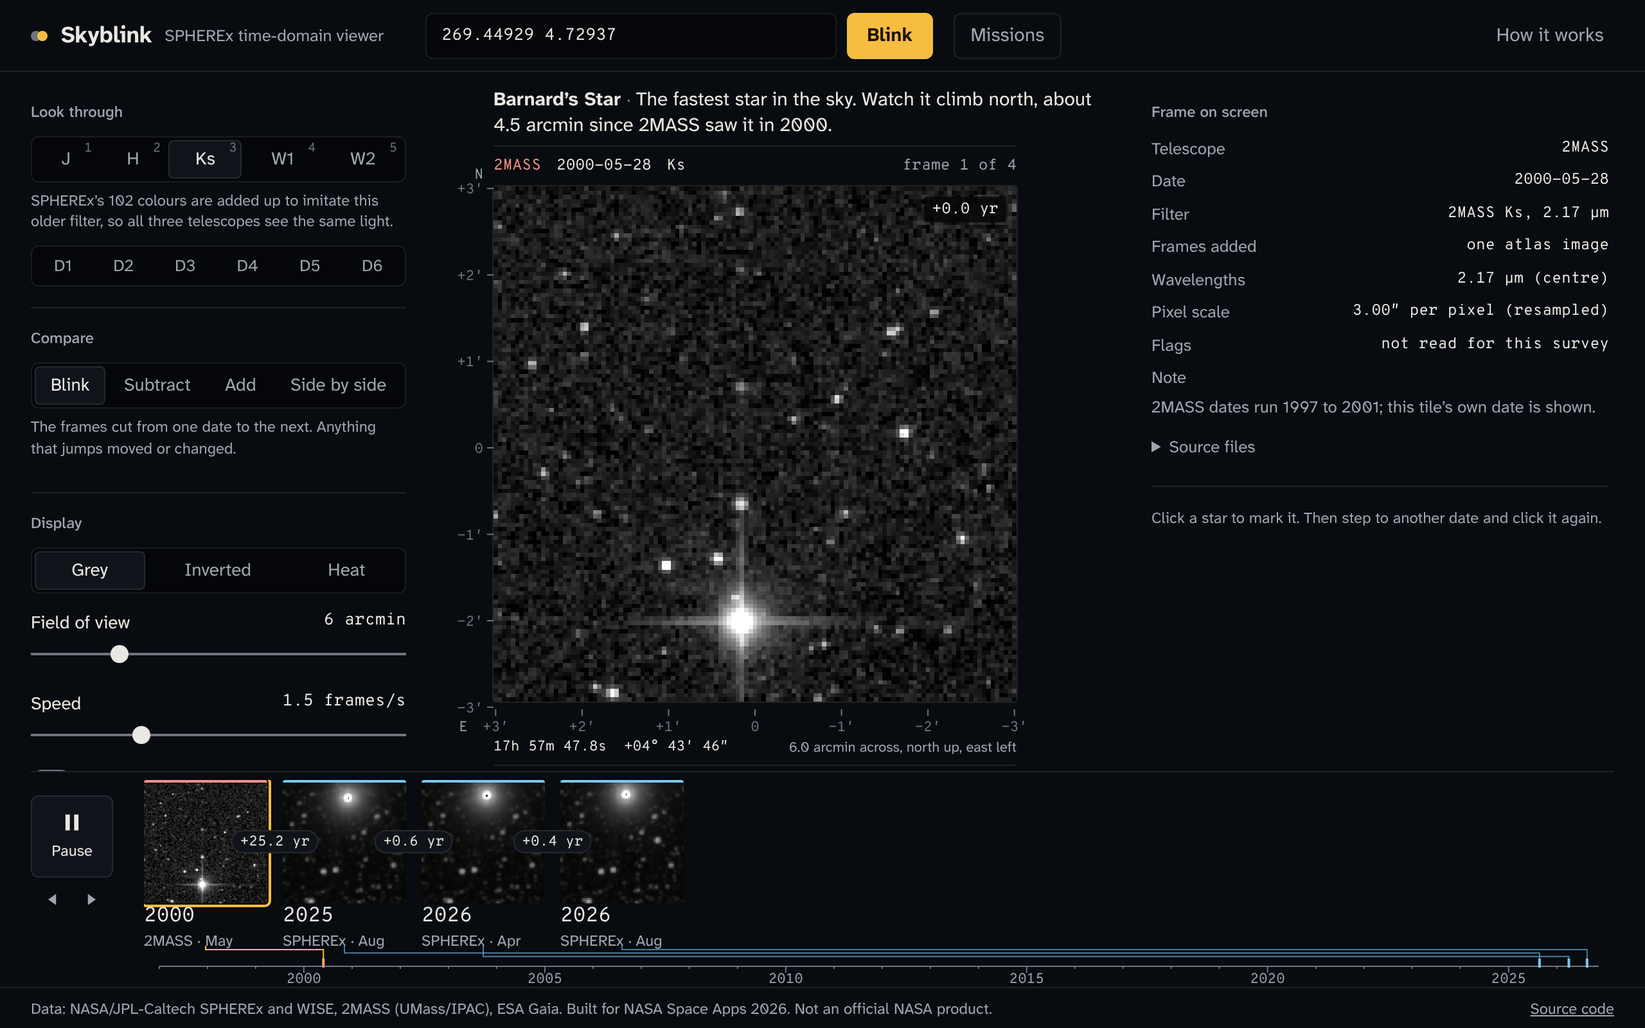
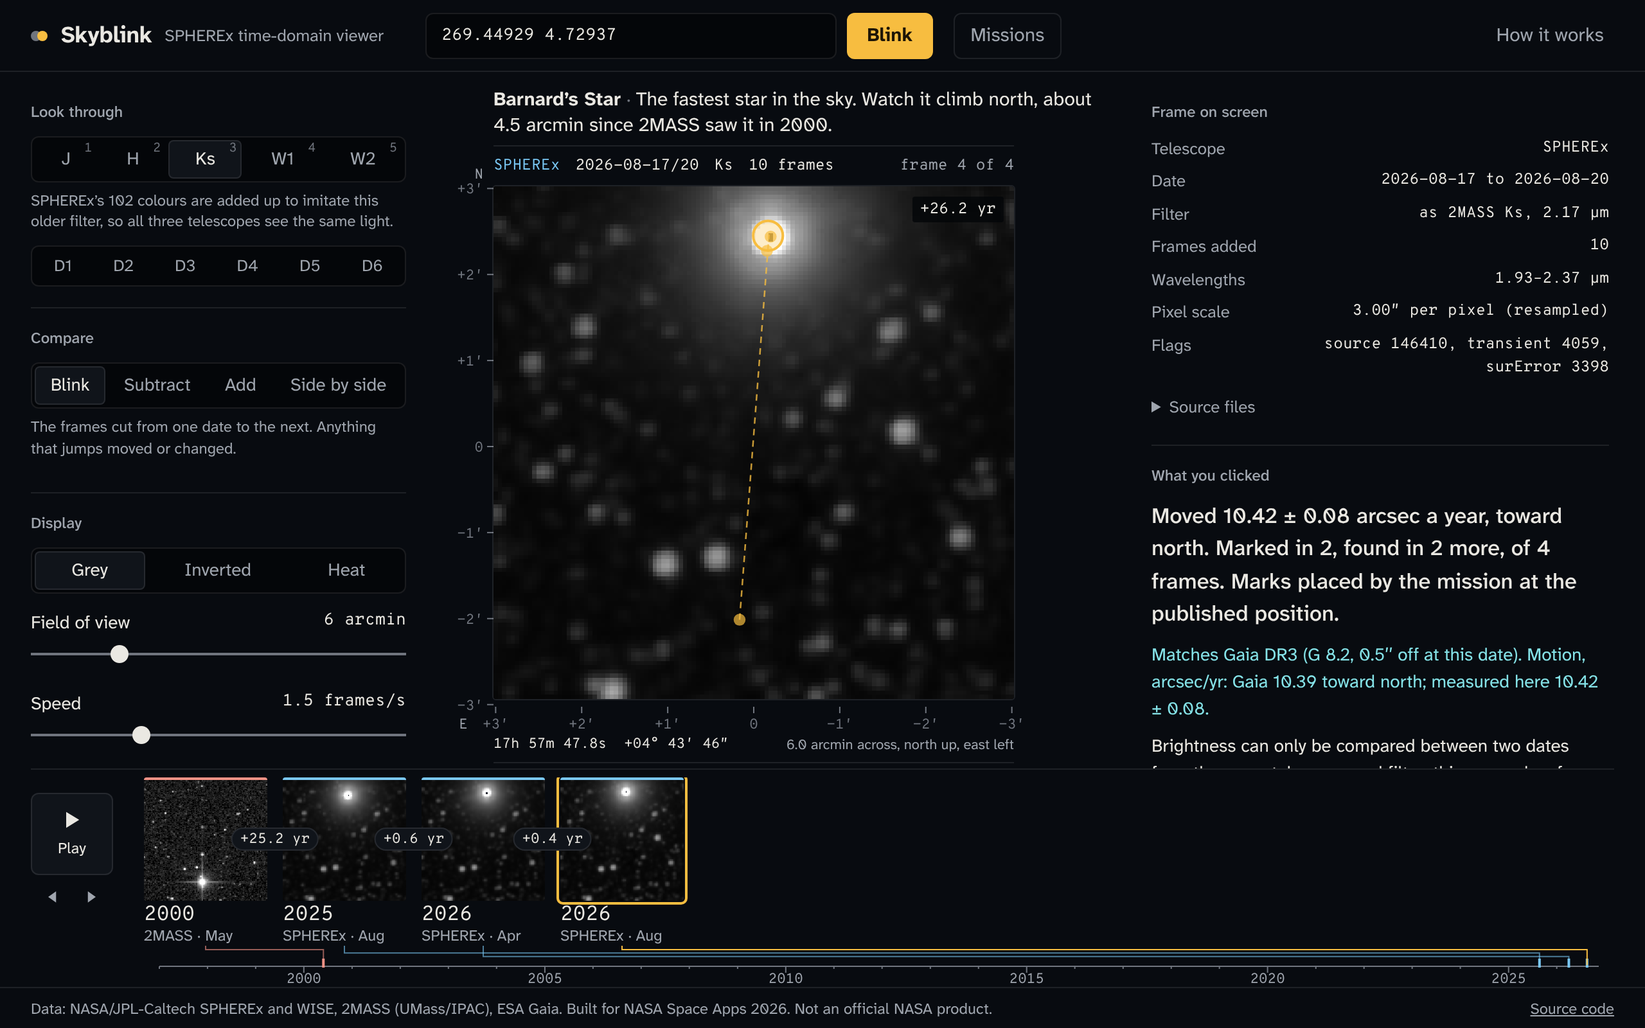
Missions mark their own target; one click works for stars that hold still; film strip labels clear of the leader lines
Brightness is compared only between visits that sampled at least 80% of the filter.

Claude-Session: https://claude.ai/code/session_01W2xLkEdqZ2R8Rb2h1n58Lp

diff --git a/web/src/ui/clicked.js b/web/src/ui/clicked.js
@@ -1,8 +1,7 @@
 // "What you clicked": the source's position on each date, its fitted motion,
 // the Gaia DR3 match, and its SPHEREx spectrum per pass.
 
-import { centroid, fitMotion, motionSentence, direction, apertureFlux, frameNoise, accepted, scatterArcsec } from '../app/measure.js';
-import { angularDistance } from '../data/sky-math.js';
+import { centroid, motionSentence, direction, trackAt, SEARCH_ARCSEC, STILL_ARCSEC } from '../app/measure.js';
 import { matchStar, totalPm } from '../app/gaia.js';
 import { gridToSky, skyToGrid } from '../engine/grid.js';
 import { slotYear } from './strip.js';
@@ -15,96 +14,77 @@ const el = (tag, cls, text) => {
   if (text != null) e.textContent = text;
   return e;
 };
-const SEARCH_ARCSEC = 12;
-const STILL_ARCSEC = 3; // one click: the same source within 3″ on every date means it did not move
 const MATCH_ARCSEC = 3; // a Gaia star counts as the same source within 3″ at the frame's date
-const APERTURE_ARCSEC = 9; // one aperture for every frame; sky from a ring at 2 to 3 times that
 const MONTHS = ['Jan', 'Feb', 'Mar', 'Apr', 'May', 'Jun', 'Jul', 'Aug', 'Sep', 'Oct', 'Nov', 'Dec'];
 const monthYear = (mjd) => {
   const d = new Date((mjd - 40587) * 86400000);
   return `${MONTHS[d.getUTCMonth()]} ${d.getUTCFullYear()}`;
 };
 
+export { measure } from '../app/measure.js';
+
 /** Mark the source nearest the click in the frame on screen only; a frame keeps one mark. Returns the mark or null. */
 export function measureClick(app, hit) {
-  const grid = app.tl.grid;
-  const m = centroid(hit.slot.frame.data, grid.n, hit.col, hit.row, SEARCH_ARCSEC / grid.scale, { core: 9 / grid.scale });
-  $('clicked').hidden = false;
-  $('click-hint').hidden = true;
-  if (!app.click) app.click = { marks: new Map(), positions: [], fit: null, still: null, spectra: new Map(), miss: false };
-  const c = app.click;
+  const m = centroid(hit.slot.frame.data, app.tl.grid.n, hit.col, hit.row, SEARCH_ARCSEC / app.tl.grid.scale, { core: 9 / app.tl.grid.scale });
+  const c = openClick(app);
   c.miss = !m;
-  if (!m) return null;
-  const [ra, dec] = gridToSky(grid, m.col, m.row);
-  c.marks.set(hit.slot.id, { slotId: hit.slot.id, mjd: hit.slot.frame.mjd, col: m.col, row: m.row, ra, dec });
-  const first = [...c.marks.values()][0];
-  Object.assign(c, { ra: first.ra, dec: first.dec, mjd: first.mjd });
+  if (m) setMark(app, hit.slot, m, false);
   return m;
 }
 
-/** Sky position + brightness of a centroid in one frame. */
-function position(slot, m, kind, grid) {
-  const [ra, dec] = gridToSky(grid, m.col, m.row);
-  const flux = apertureFlux(slot.frame.data, grid.n, grid.n, m.col, m.row, APERTURE_ARCSEC / grid.scale);
-  return { slot, mjd: slot.frame.mjd, found: true, kind, col: m.col, row: m.row, ra, dec, flux, ...brightness(flux, slot.frame.unit, grid.scale) };
+function openClick(app) {
+  $('clicked').hidden = false;
+  $('click-hint').hidden = true;
+  app.click ??= { marks: new Map(), positions: [], fit: null, still: null, spectra: new Map(), miss: false };
+  return app.click;
+}
+
+function setMark(app, slot, m, mission) {
+  const c = app.click;
+  const [ra, dec] = gridToSky(app.tl.grid, m.col, m.row);
+  c.marks.set(slot.id, { slotId: slot.id, mjd: slot.frame.mjd, col: m.col, row: m.row, ra, dec, mission });
+  const first = [...c.marks.values()][0];
+  Object.assign(c, { ra: first.ra, dec: first.dec, mjd: first.mjd });
 }
 
 /**
- * Marks -> positions on every ready frame. One mark: if the same source sits within 3″ in every other
- * ready frame it did not move. Two or more: fit a line, look within 12″ of its prediction in each unmarked
- * frame, accept a centroid whose aperture sum is at least 5 times the frame's aperture noise, refit with all.
+ * A mission marks its own target: centroid the real image within 12″ of where the published track puts it,
+ * in the first and the last ready frame (moving inward past frames where nothing is found). A target with
+ * no proper motion needs one mark, in the newest frame. Marks nothing unless every needed mark is found.
  */
-export function measure(app) {
-  const c = app.click;
-  if (!c) return;
+export function missionMarks(app, track) {
   const grid = app.tl.grid;
   const ready = app.view.filter((s) => s.status === 'ready');
-  for (const id of c.marks.keys()) if (!ready.some((s) => s.id === id)) c.marks.delete(id);
-  const look = (slot, ra, dec, radius) => {
-    const g = skyToGrid(grid, ra, dec);
-    return g && centroid(slot.frame.data, grid.n, g[0], g[1], radius / grid.scale, { core: 9 / grid.scale });
+  const find = (s) => {
+    const g = skyToGrid(grid, ...trackAt(track, s.frame.mjd));
+    return g && centroid(s.frame.data, grid.n, g[0], g[1], SEARCH_ARCSEC / grid.scale, { core: 9 / grid.scale });
   };
-  const marked = ready.filter((s) => c.marks.has(s.id)).map((s) => position(s, c.marks.get(s.id), 'marked', grid));
-  c.still = null;
-  c.fit = null;
-  c.positions = marked;
-  if (marked.length === 1) {
-    const [m] = marked;
-    const others = ready.filter((s) => s.id !== m.slot.id).map((s) => [s, look(s, m.ra, m.dec, STILL_ARCSEC)]);
-    if (others.length && others.every(([, f]) => f)) {
-      c.positions = [m, ...others.map(([s, f]) => position(s, f, 'found', grid))];
-      const near = c.positions.every((p) => angularDistance(p.ra, p.dec, m.ra, m.dec) * 3600 <= STILL_ARCSEC);
-      if (near) c.still = { scatter: scatterArcsec(c.positions) };
-      else c.positions = marked;
-    }
-  } else if (marked.length >= 2) {
-    const line = fitMotion(marked, { floor: grid.scale / 2 });
-    if (line) {
-      const npix = Math.PI * (APERTURE_ARCSEC / grid.scale) ** 2;
-      const found = [];
-      for (const s of ready) {
-        if (c.marks.has(s.id)) continue;
-        const f = look(s, ...line.at(s.frame.mjd), SEARCH_ARCSEC);
-        if (!f) continue;
-        const p = position(s, f, 'found', grid);
-        s.frame.noise ??= frameNoise(s.frame.data); // shortcut: cached on the frame object, recomputed if the frame is rebuilt
-        // A saturated core leaves flagged (NaN) pixels in the aperture: then judge the centroid's core sum instead.
-        const ok = Number.isFinite(p.flux) ? accepted(p.flux, s.frame.noise, npix) : accepted(f.flux, s.frame.noise, f.npix);
-        if (ok) found.push(p);
-      }
-      c.positions = [...marked, ...found].sort((x, y) => x.mjd - y.mjd);
-    }
-    c.fit = fitMotion(c.positions, { floor: grid.scale / 2 });
+  const hits = [];
+  for (let j = ready.length - 1; j >= 0 && !hits.length; j--) {
+    const m = find(ready[j]);
+    if (m) hits.push([ready[j], m]);
   }
-  c.readyCount = ready.length;
+  if (track.pmra || track.pmdec) {
+    const last = hits.length ? ready.indexOf(hits[0][0]) : 0;
+    for (let i = 0; i < last && hits.length < 2; i++) {
+      const m = find(ready[i]);
+      if (m) hits.push([ready[i], m]);
+    }
+    if (hits.length < 2) return false;
+  } else if (!hits.length) return false;
+  openClick(app);
+  for (const [s, m] of hits.reverse()) setMark(app, s, m, true);
+  return true;
 }
 
 function motionText(c) {
   const n = c.readyCount;
   const marks = c.marks.size;
   const miss = c.miss ? `No source within ${SEARCH_ARCSEC}″ of that click. ` : '';
-  if (c.still) return `${miss}Did not move: the same source sits within ${STILL_ARCSEC}″ in all ${n} frames (scatter ${c.still.scatter.toFixed(1)}″).`;
+  const k = c.positions.length;
+  if (c.still) return `${miss}Did not move: the same source sits within ${STILL_ARCSEC}″ in ${k === n ? 'all' : `${k} of`} ${n} frames (scatter ${c.still.scatter.toFixed(1)}″).`;
   if (marks === 0) return `${miss}Click a star to mark it.`;
+  if (marks === 1 && c.away) return `${miss}Found within ${STILL_ARCSEC}″ of the mark in ${k} of ${n} frames but further away in ${c.away}, so it cannot say whether it moved. Step to another date and click it again.`;
   if (marks === 1) return `${miss}Marked in 1 of ${n} frames. Step to another date and click it again.`;
   if (!c.fit) return `${miss}The marks are less than three months apart. Mark a date further away.`;
   const found = c.positions.length - marks;
@@ -114,7 +94,8 @@ function motionText(c) {
 export function renderClicked(app, st) {
   const c = app.click;
   if (!c) return;
-  $('motion').textContent = motionText(c);
+  const byMission = [...c.marks.values()].filter((m) => m.mission).length;
+  $('motion').textContent = motionText(c) + (byMission ? ` ${byMission > 1 ? 'Marks' : 'Mark'} placed by the mission at the published position.` : '');
   $('gaia-match').textContent = gaiaLine(app, c);
   $('bright').textContent = brightSentence(c.positions);
   const body = $('pos-table').tBodies[0];
@@ -142,27 +123,23 @@ export function renderClicked(app, st) {
 
 const signed = (v) => `${v >= 0 ? '+' : '−'}${Math.abs(v).toFixed(1)}`;
 
-/**
- * Aperture sum -> a value in the frame's own unit. Surface brightness in MJy/sr
- * summed over pixels times the pixel's solid angle is a flux density, given in mJy;
- * any other unit is shown as the plain sum, labelled with that unit.
- */
-function brightness(sum, unit, scaleArcsec) {
-  if (!Number.isFinite(sum)) return { value: NaN, unit: unit || '' };
-  if (unit === 'MJy/sr') return { value: sum * 1e9 * (scaleArcsec / 206264.806) ** 2, unit: 'mJy' };
-  return { value: sum, unit: `${unit || 'counts'} summed` };
-}
-
 /** "Faded 34% between Sep 2025 and Sep 2026", only within one survey and filter. */
 function brightSentence(positions) {
   const groups = new Map();
+  let partial = 0;
   for (const p of positions) {
     if (!p.found || !Number.isFinite(p.value)) continue;
+    // A visit that sampled under 80% of the filter gives a brightness that is not comparable (see timeline.js).
+    if (p.slot.frame.bandCoverage < 0.8) {
+      partial++;
+      continue;
+    }
     const k = `${p.slot.source}|${p.slot.frame.band}|${p.unit}`;
     if (!groups.has(k)) groups.set(k, []);
     groups.get(k).push(p);
   }
   const best = [...groups.values()].filter((g) => g.length >= 2).sort((a, b) => b.length - a.length)[0];
+  if (!best && partial) return 'Brightness is compared only between visits that sampled at least 80% of the filter, and fewer than two did here.';
   if (!best) return 'Brightness can only be compared between two dates from the same telescope and filter; this source has fewer than two.';
   const [a, b] = [best[0], best.at(-1)];
   if (!(a.value > 0)) return '';
@@ -186,6 +163,6 @@ function gaiaLine(app, c) {
   const s = near.star;
   const pm = totalPm(s);
   const pa = ((Math.atan2(s.pmra, s.pmdec) * 180) / Math.PI + 360) % 360;
-  const measured = c.fit ? `${c.fit.speed.toFixed(2)} ± ${c.fit.sigma.toFixed(2)}` : 'not measured';
-  return `Matches Gaia DR3 (G ${s.g.toFixed(1)}, ${near.sepArcsec.toFixed(1)}″ off at this date). Motion, arcsec/yr: Gaia ${pm.toFixed(2)} toward ${direction(pa)}; measured here ${measured}.`;
+  const measured = c.fit ? `; measured here ${c.fit.speed.toFixed(2)} ± ${c.fit.sigma.toFixed(2)}` : '';
+  return `Matches Gaia DR3 (G ${s.g.toFixed(1)}, ${near.sepArcsec.toFixed(1)}″ off at this date). Motion, arcsec/yr: Gaia ${pm.toFixed(2)} toward ${direction(pa)}${measured}.`;
 }

diff --git a/web/src/app/measure.js b/web/src/app/measure.js
@@ -1,6 +1,13 @@
 // Measuring a clicked source: centroids on the shared grid, a straight-line
 // fit of position against time, aperture flux. Pure functions, no DOM.
 
+import { angularDistance } from '../data/sky-math.js';
+import { gridToSky, skyToGrid } from '../engine/grid.js';
+
+export const SEARCH_ARCSEC = 12;
+export const STILL_ARCSEC = 3; // one click: the same source within 3″ on other dates means it did not move
+const APERTURE_ARCSEC = 9; // one aperture for every frame; sky from a ring at 2 to 3 times that
+
 const sortNum = (a) => a.sort((x, y) => x - y);
 function median(a) {
   if (!a.length) return NaN;
@@ -143,4 +150,86 @@ export function motionSentence(fit) {
   if (!fit) return 'Not enough dates to measure motion.';
   if (fit.speed < 3 * fit.sigma) return `No clear motion: less than ${(3 * fit.sigma).toFixed(1)} arcsec a year over ${fit.years.toFixed(0)} years.`;
   return `Moved ${fit.speed.toFixed(2)} ± ${fit.sigma.toFixed(2)} arcsec a year, toward ${direction(fit.pa)}.`;
+}
+
+/** Sky position + brightness of a centroid in one frame. */
+function position(slot, m, kind, grid) {
+  const [ra, dec] = gridToSky(grid, m.col, m.row);
+  const flux = apertureFlux(slot.frame.data, grid.n, grid.n, m.col, m.row, APERTURE_ARCSEC / grid.scale);
+  return { slot, mjd: slot.frame.mjd, found: true, kind, col: m.col, row: m.row, ra, dec, flux, ...brightness(flux, slot.frame.unit, grid.scale) };
+}
+
+/**
+ * Marks -> positions on every ready frame. One mark: frames where the same source sits within 3″ join;
+ * found in two or more other frames and nowhere further away, it did not move. Two or more: fit a line,
+ * look within 12″ of its prediction in each unmarked frame, accept a centroid whose aperture sum is at least 5 times the frame's aperture noise, refit with all.
+ */
+export function measure(app) {
+  const c = app.click;
+  if (!c) return;
+  const grid = app.tl.grid;
+  const ready = app.view.filter((s) => s.status === 'ready');
+  for (const id of c.marks.keys()) if (!ready.some((s) => s.id === id)) c.marks.delete(id);
+  const look = (slot, ra, dec, radius) => {
+    const g = skyToGrid(grid, ra, dec);
+    return g && centroid(slot.frame.data, grid.n, g[0], g[1], radius / grid.scale, { core: 9 / grid.scale });
+  };
+  const marked = ready.filter((s) => c.marks.has(s.id)).map((s) => position(s, c.marks.get(s.id), 'marked', grid));
+  c.still = null;
+  c.fit = null;
+  c.positions = marked;
+  if (marked.length === 1) {
+    const [m] = marked;
+    // Search the normal 12″ (centroid measures its sky in a box twice the search radius; at 3″ that box is
+    // the star itself and nothing is found), then keep what lies within 3″ of the mark.
+    let away = 0;
+    for (const s of ready) {
+      if (s.id === m.slot.id) continue;
+      const f = look(s, m.ra, m.dec, SEARCH_ARCSEC);
+      if (!f) continue;
+      const p = position(s, f, 'found', grid);
+      if (angularDistance(p.ra, p.dec, m.ra, m.dec) * 3600 <= STILL_ARCSEC) c.positions.push(p);
+      else away++;
+    }
+    c.positions.sort((x, y) => x.mjd - y.mjd);
+    c.away = away;
+    if (c.positions.length >= 3 && !away) c.still = { scatter: scatterArcsec(c.positions) };
+  } else if (marked.length >= 2) {
+    const line = fitMotion(marked, { floor: grid.scale / 2 });
+    if (line) {
+      const npix = Math.PI * (APERTURE_ARCSEC / grid.scale) ** 2;
+      const found = [];
+      for (const s of ready) {
+        if (c.marks.has(s.id)) continue;
+        const f = look(s, ...line.at(s.frame.mjd), SEARCH_ARCSEC);
+        if (!f) continue;
+        const p = position(s, f, 'found', grid);
+        s.frame.noise ??= frameNoise(s.frame.data); // shortcut: cached on the frame object, recomputed if the frame is rebuilt
+        // A saturated core leaves flagged (NaN) pixels in the aperture: then judge the centroid's core sum instead.
+        const ok = Number.isFinite(p.flux) ? accepted(p.flux, s.frame.noise, npix) : accepted(f.flux, s.frame.noise, f.npix);
+        if (ok) found.push(p);
+      }
+      c.positions = [...marked, ...found].sort((x, y) => x.mjd - y.mjd);
+    }
+    c.fit = fitMotion(c.positions, { floor: grid.scale / 2 });
+  }
+  c.readyCount = ready.length;
+}
+
+/**
+ * Aperture sum -> a value in the frame's own unit. Surface brightness in MJy/sr
+ * summed over pixels times the pixel's solid angle is a flux density, given in mJy;
+ * any other unit is shown as the plain sum, labelled with that unit.
+ */
+function brightness(sum, unit, scaleArcsec) {
+  if (!Number.isFinite(sum)) return { value: NaN, unit: unit || '' };
+  if (unit === 'MJy/sr') return { value: sum * 1e9 * (scaleArcsec / 206264.806) ** 2, unit: 'mJy' };
+  return { value: sum, unit: `${unit || 'counts'} summed` };
+}
+
+/** A published track { ra, dec, epoch (Julian year), pmra, pmdec (mas/yr, pmra with cos Dec) } -> [ra, dec] at `mjd`. */
+export function trackAt(t, mjd) {
+  const dt = 2000 + (mjd - 51544.5) / 365.25 - t.epoch;
+  const dec = t.dec + (t.pmdec * dt) / 3.6e6;
+  return [t.ra + (t.pmra * dt) / 3.6e6 / Math.cos((((t.dec + dec) / 2) * Math.PI) / 180), dec];
 }

diff --git a/web/src/app/state.js b/web/src/app/state.js
@@ -14,13 +14,15 @@ export const FOV_MAX = 20;
 // Barnard: J2000 269.45208 +4.69339, pm -801.6 +10362.4 mas/yr -> 2012.5.
 // Epsilon Indi B: J2000 331.04383 -56.78269, pm +3966.7 -2536.2 -> 2012.5.
 // WISE 0855: 2010.5 133.795129 -7.245147, pm -8123.7 +673.3 (Luhman & Esplin 2016) -> 2018.0 (it is too faint for 2MASS).
+// track: published position at epoch (Julian year) and proper motion in mas/yr (pmra includes cos Dec),
+// copied from tools/verify-targets.mjs; a mission centroids the real image near it to place its own marks.
 // Each target is also a guided mission: choosing it sets target, field and filter, and shows `brief`.
 export const TARGETS = [
-  { id: 'barnard', name: 'Barnard’s Star', ra: 269.449287, dec: 4.729371, fov: 6, band: 'Ks', brief: 'The fastest star in the sky. Watch it climb north, about 4.5 arcmin since 2MASS saw it in 2000.' },
-  { id: 'eps-indi-b', name: 'Epsilon Indi B', ra: 331.068976, dec: -56.791496, fov: 6, band: 'Ks', brief: 'Two brown dwarfs 12 light-years away. Follow the faint dot drifting south-east, 4.7 arcsec a year.' },
-  { id: 'wise0855', name: 'WISE 0855', ra: 133.778068, dec: -7.243744, fov: 6, band: 'W2', brief: 'The coldest known brown dwarf. Invisible to 2MASS, a faint dot for WISE in 2010, and SPHEREx finds it again 2 arcmin to the west.' },
-  { id: 'rw-aur', name: 'RW Aurigae', ra: 76.95641, dec: 30.40141, fov: 6, band: 'W1', brief: 'A young star that dims when dust crosses it. It holds still, so watch its brightness, not its place.' },
-  { id: 'r-dra', name: 'R Draconis', ra: 248.1676, dec: 66.755, fov: 6, band: 'W2', brief: 'A red giant that swells and shrinks every 246 days. SPHEREx passes it often; watch it brighten and fade.' },
+  { id: 'barnard', name: 'Barnard’s Star', ra: 269.449287, dec: 4.729371, fov: 6, band: 'Ks', brief: 'The fastest star in the sky. Watch it climb north, about 4.5 arcmin since 2MASS saw it in 2000.', track: { ra: 269.45208, dec: 4.69339, epoch: 2000.0, pmra: -801.6, pmdec: 10362.4 } },
+  { id: 'eps-indi-b', name: 'Epsilon Indi B', ra: 331.068976, dec: -56.791496, fov: 6, band: 'Ks', brief: 'Two brown dwarfs 12 light-years away. Follow the faint dot drifting south-east, 4.7 arcsec a year.', track: { ra: 331.04383, dec: -56.78269, epoch: 2000.0, pmra: 3966.7, pmdec: -2536.2 } },
+  { id: 'wise0855', name: 'WISE 0855', ra: 133.778068, dec: -7.243744, fov: 6, band: 'W2', brief: 'The coldest known brown dwarf. Invisible to 2MASS, a faint dot for WISE in 2010, and SPHEREx finds it again 2 arcmin to the west.', track: { ra: 133.795129, dec: -7.245147, epoch: 2010.5, pmra: -8123.7, pmdec: 673.3 } },
+  { id: 'rw-aur', name: 'RW Aurigae', ra: 76.95641, dec: 30.40141, fov: 6, band: 'W1', brief: 'A young star that dims when dust crosses it. It holds still, so watch its brightness, not its place.', track: { ra: 76.95642, dec: 30.40136, epoch: 2000.0, pmra: 0, pmdec: 0 } },
+  { id: 'r-dra', name: 'R Draconis', ra: 248.1676, dec: 66.755, fov: 6, band: 'W2', brief: 'A red giant that swells and shrinks every 246 days. SPHEREx passes it often; watch it brighten and fade.', track: { ra: 248.1675, dec: 66.755, epoch: 2000.0, pmra: 0, pmdec: 0 } },
 ];
 export const NO_MISSION = 'See the sky change over 27 years';
 

diff --git a/web/src/main.js b/web/src/main.js
@@ -10,7 +10,7 @@ import { getBand, visitsForBand, BANDS as BAND_DEFS } from './engine/bands.js';
 import { loadGaia } from './app/gaia.js';
 import { renderStrip, drawRuler, slotStatusText, slotYear } from './ui/strip.js';
 import { drawStage, stagePanels, clearRenderCache, GAIA_RING_G, centreText } from './ui/stage.js';
-import { measureClick, measure, renderClicked } from './ui/clicked.js';
+import { measureClick, measure, renderClicked, missionMarks } from './ui/clicked.js';
 
 const $ = (id) => document.getElementById(id);
 const el = (tag, cls, text) => {
@@ -36,7 +36,9 @@ function load() {
   app.ctrl = new AbortController();
   app.gaiaCtrl?.abort();
   clearRenderCache();
-  Object.assign(app, { view: [], passes: null, passError: null, gaia: null, gaiaState: 'off', click: null });
+  // A mission (centre and filter equal to a target's) places its own marks once its frames are in.
+  const mission = TARGETS.find((t) => Math.abs(t.ra - st.ra) < 1e-4 && Math.abs(t.dec - st.dec) < 1e-4 && t.band === st.band);
+  Object.assign(app, { view: [], passes: null, passError: null, gaia: null, gaiaState: 'off', click: null, mission: mission?.track ?? null });
   st.curId = null;
   st.userHeld = false;
   st.pausedByUser = false;
@@ -89,6 +91,12 @@ function render() {
   });
   renderPickers();
   renderPassNote();
+  // Wait until no frame is still loading, so the first and last ready frames are the real first and last.
+  if (app.mission && !app.click && ready.length >= 2 && !app.view.some((s) => s.status === 'loading')) {
+    const track = app.mission;
+    app.mission = null;
+    if (missionMarks(app, track)) ensureGaia();
+  }
   if (app.click) measure(app);
   renderStage();
   if (app.click) renderClicked(app, st);
@@ -390,6 +398,7 @@ $('stage').addEventListener('click', (e) => {
   const hit = stagePanels.hit(e, $('stage'));
   if (!hit) return;
   stop(true);
+  app.mission = null;
   measureClick(app, hit);
   ensureGaia();
   render();
@@ -397,6 +406,7 @@ $('stage').addEventListener('click', (e) => {
 });
 $('clear-click').onclick = () => {
   app.click = null;
+  app.mission = null;
   $('clicked').hidden = true;
   $('click-hint').hidden = false;
   render();

diff --git a/web/src/styles/app.css b/web/src/styles/app.css
@@ -18,7 +18,7 @@
   --mono: 'Overpass Mono', ui-monospace, monospace;
   --ease: cubic-bezier(0.22, 1, 0.36, 1);
   --top: 56px;
-  --strip: 168px;
+  --strip: 170px;
   --left: 296px;
   --right: 360px;
   color-scheme: dark;
@@ -281,9 +281,9 @@ a { color: var(--ink); }
 .thumb:focus-visible canvas { outline: 2px solid var(--accent); outline-offset: 3px; }
 .thumb .fill { position: absolute; left: 0; right: 0; top: 93px; height: 3px; background: var(--hairline); }
 .thumb .fill i { display: block; height: 100%; background: var(--survey); width: 0; }
-.thumb .lab { height: 30px; padding: 2px 0 0; line-height: 1.1; flex: none; }
-.thumb .yr { font-family: var(--mono); font-size: 16px; font-variant-numeric: tabular-nums; display: block; }
-.thumb .mo { font-size: 12px; color: var(--ink-muted); }
+.thumb .lab { height: 34px; padding: 2px 0 0; flex: none; } /* holds both lines, so the ruler's leaders start below the text */
+.thumb .yr { font-family: var(--mono); font-size: 16px; line-height: 18px; font-variant-numeric: tabular-nums; display: block; }
+.thumb .mo { display: block; font-size: 12px; line-height: 14px; color: var(--ink-muted); }
 .thumb .state { position: absolute; left: 0; right: 0; top: 0; height: 96px; display: flex; flex-direction: column; align-items: center; justify-content: flex-start; padding: 8px 4px 4px; text-align: center; font-size: 11px; color: var(--ink-muted); line-height: 1.25; }
 .thumb.empty canvas, .thumb.error canvas { border-top-color: var(--ink-faint); }
 .retry { font-size: 12px; padding: 2px 8px; margin-top: 4px; color: var(--ink); border: 1px solid var(--hairline); border-radius: 6px; background: var(--panel); cursor: pointer; }
